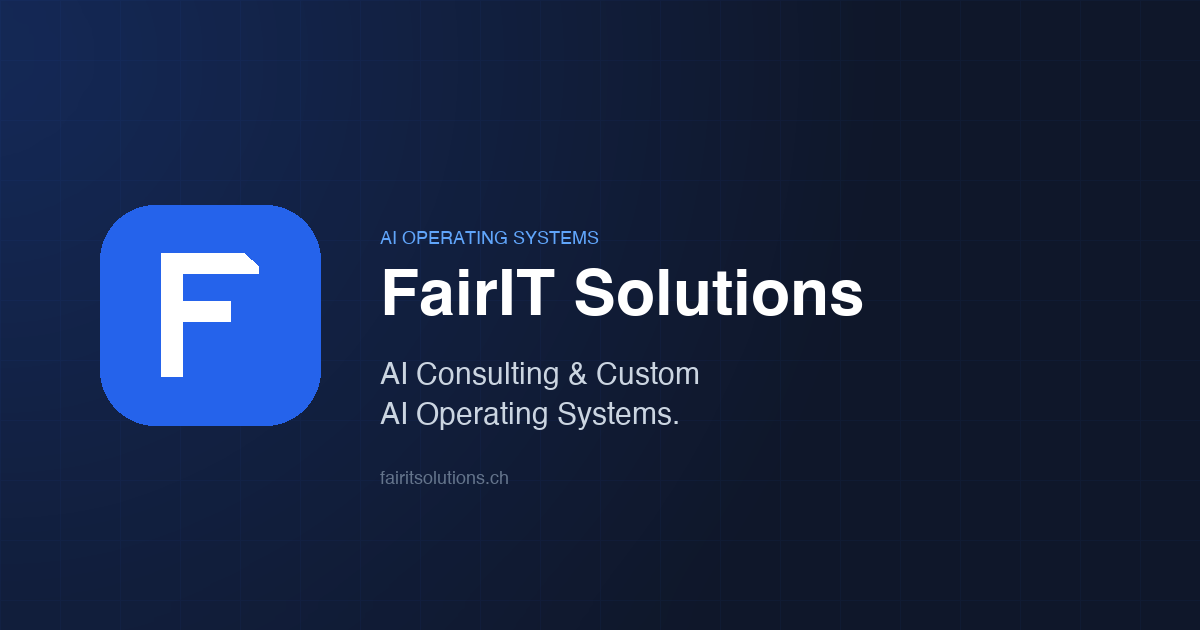
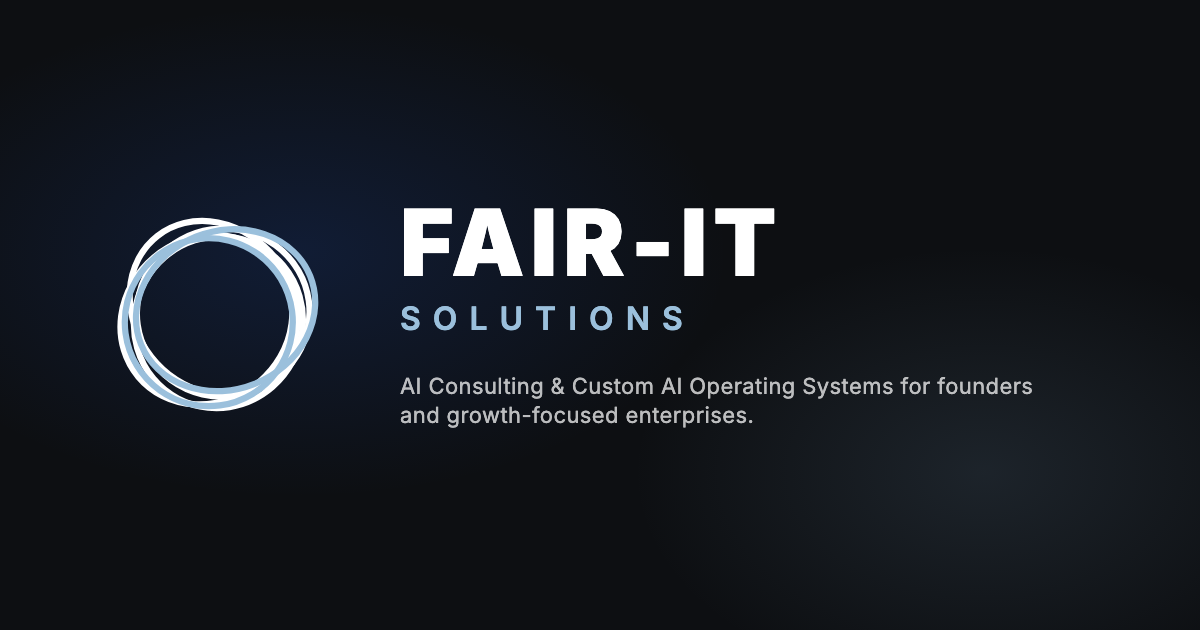
brand: swap F-in-blue-square mark for overlapping ring composition
Replaces the stylised-F mark with a 6-ring composition (4 dark + 2
steel-blue) matching the new brand reference. This is a geometric
SVG interpretation of a hand-drawn source raster — clean concentric
ellipses at varied rotations. To be replaced with the designer's true
vector when it lands (drop-in swap at the same filenames, no code
change).

Updated:
- 5 SVG files at public/images/ (mark, mark-mono, horizontal, dark,
  favicon)
- og-image.png (1200x630) regenerated with new mark + FAIR-IT wordmark
- apple-touch-icon.png (180x180) regenerated on dark tile
- Inline SVG mark in resources/views/layouts/app.blade.php at both
  the desktop nav (dark rings on light bg) and footer brand column
  (light rings on charcoal-950 bg)

Prose is intentionally NOT changed — 'FairIT Solutions' remains the
title-case wordmark everywhere in body copy, schema, and emails.
Only the visual mark reads 'FAIR-IT SOLUTIONS' (all caps + hyphen)
per the new logo's stylised wordmark.

Old assets preserved at storage/originals/old-* for instant rollback.

diff --git a/resources/views/layouts/app.blade.php b/resources/views/layouts/app.blade.php
@@ -111,9 +111,15 @@
 
                 {{-- Logo --}}
                 <a href="{{ route('home') }}" class="flex items-center gap-2.5 group" aria-label="FairIT Solutions Home">
-                    <svg class="w-8 h-8 flex-shrink-0" viewBox="0 0 32 32" xmlns="http://www.w3.org/2000/svg" aria-hidden="true">
-                        <rect width="32" height="32" rx="8" fill="#2563eb"/>
-                        <path d="M9 7H21L23 9V10H12V14H19V17H12V25H9Z" fill="#FFFFFF"/>
+                    <svg class="w-8 h-8 flex-shrink-0" viewBox="0 0 100 100" xmlns="http://www.w3.org/2000/svg" aria-hidden="true">
+                        <g fill="none" stroke-linecap="round" stroke-width="2.6">
+                            <ellipse cx="46" cy="52" rx="37" ry="34" stroke="#111827" transform="rotate(-40 46 52)"/>
+                            <ellipse cx="53" cy="49" rx="36" ry="35" stroke="#111827" transform="rotate(-8 53 49)"/>
+                            <ellipse cx="51" cy="53" rx="35" ry="36" stroke="#111827" transform="rotate(28 51 53)"/>
+                            <ellipse cx="49" cy="47" rx="38" ry="33" stroke="#111827" transform="rotate(52 49 47)"/>
+                            <ellipse cx="54" cy="48" rx="38" ry="33" stroke="#7CA0C0" transform="rotate(-22 54 48)"/>
+                            <ellipse cx="47" cy="53" rx="35" ry="35" stroke="#7CA0C0" transform="rotate(14 47 53)"/>
+                        </g>
                     </svg>
                     <div>
                         <span class="font-bold text-charcoal-950 text-base leading-tight block group-hover:text-brand-600 transition-colors">FairIT Solutions</span>
@@ -330,9 +336,15 @@
                 {{-- Brand Column --}}
                 <div class="sm:col-span-2 lg:col-span-2">
                     <a href="{{ route('home') }}" class="flex items-center gap-2.5 mb-6">
-                        <svg class="w-8 h-8 flex-shrink-0" viewBox="0 0 32 32" xmlns="http://www.w3.org/2000/svg" aria-hidden="true">
-                            <rect width="32" height="32" rx="8" fill="#2563eb"/>
-                            <path d="M9 7H21L23 9V10H12V14H19V17H12V25H9Z" fill="#FFFFFF"/>
+                        <svg class="w-8 h-8 flex-shrink-0" viewBox="0 0 100 100" xmlns="http://www.w3.org/2000/svg" aria-hidden="true">
+                            <g fill="none" stroke-linecap="round" stroke-width="2.6">
+                                <ellipse cx="46" cy="52" rx="37" ry="34" stroke="#FFFFFF" transform="rotate(-40 46 52)"/>
+                                <ellipse cx="53" cy="49" rx="36" ry="35" stroke="#FFFFFF" transform="rotate(-8 53 49)"/>
+                                <ellipse cx="51" cy="53" rx="35" ry="36" stroke="#FFFFFF" transform="rotate(28 51 53)"/>
+                                <ellipse cx="49" cy="47" rx="38" ry="33" stroke="#FFFFFF" transform="rotate(52 49 47)"/>
+                                <ellipse cx="54" cy="48" rx="38" ry="33" stroke="#9BC0DC" transform="rotate(-22 54 48)"/>
+                                <ellipse cx="47" cy="53" rx="35" ry="35" stroke="#9BC0DC" transform="rotate(14 47 53)"/>
+                            </g>
                         </svg>
                         <div>
                             <span class="font-bold text-white text-base block">FairIT Solutions</span>